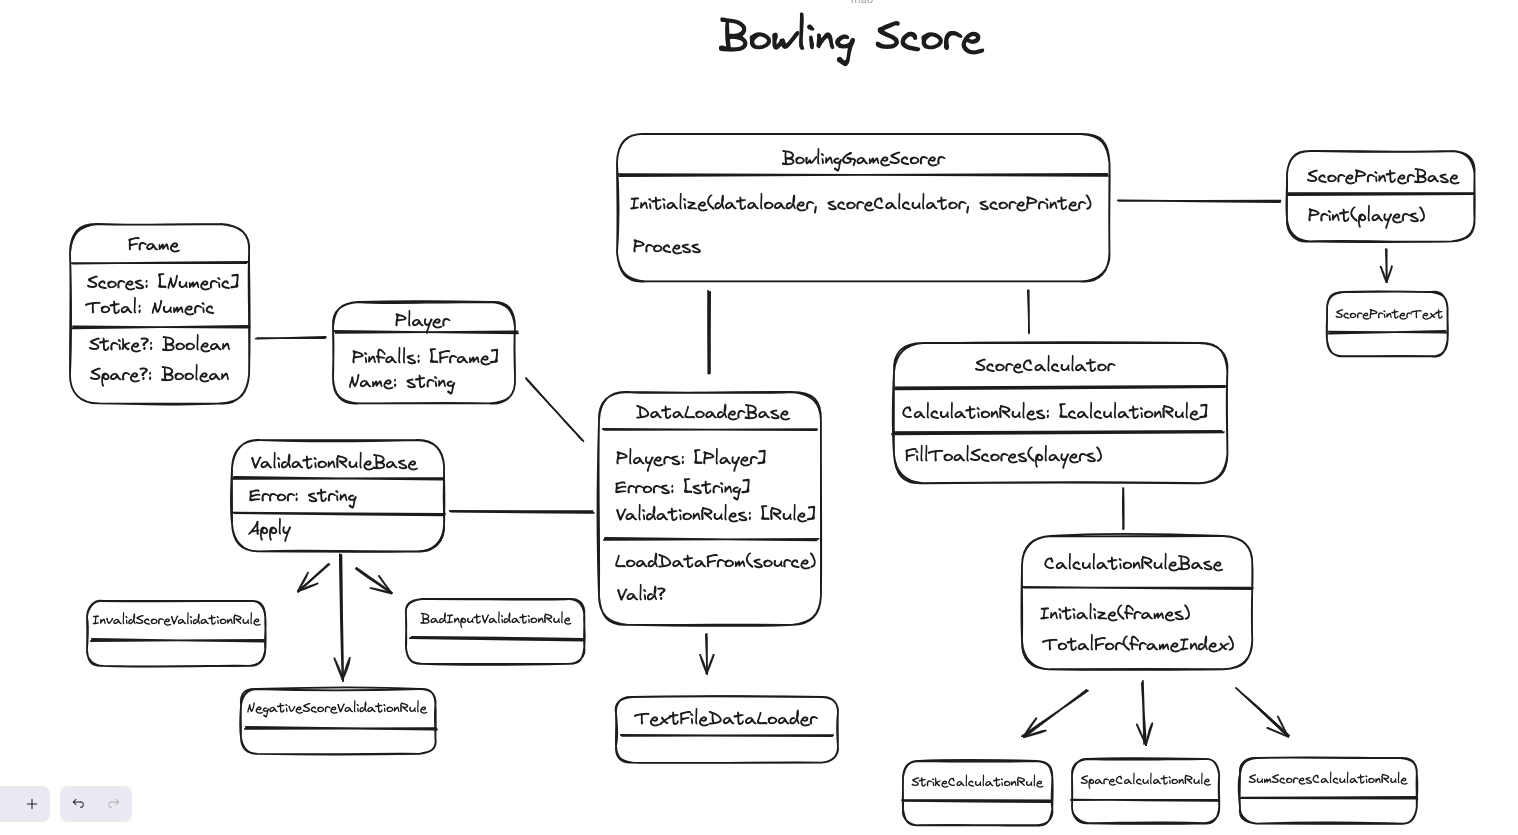
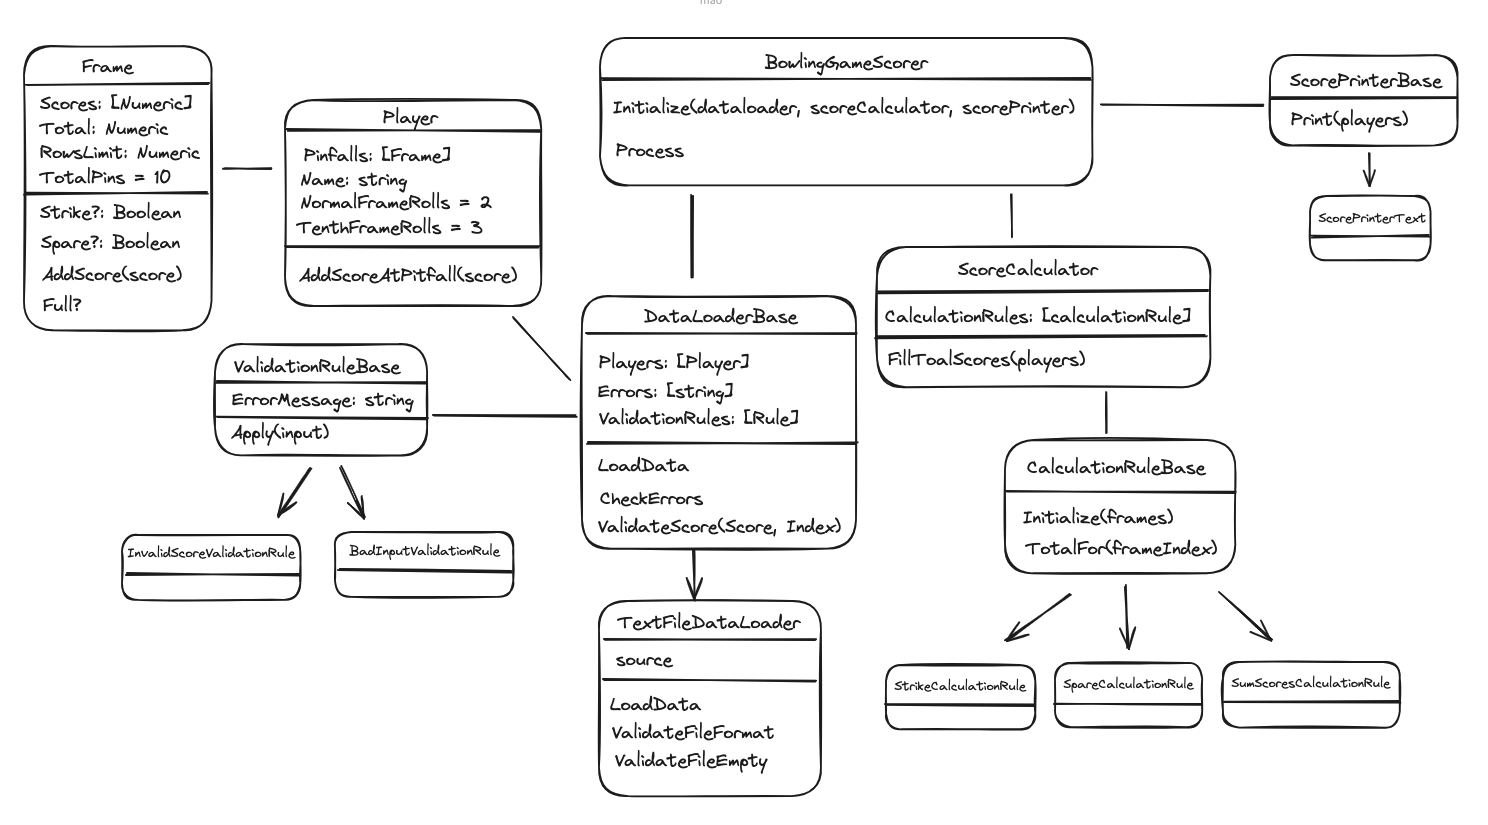
create Player class and update readme

Changed region(s): [[0.0, 0.0, 0.9892, 1.0], [0.1546, 0.7879, 0.3091, 0.9091]]

diff --git a/spec/lib/player_spec.rb b/spec/lib/player_spec.rb
@@ -1,0 +1,60 @@
+require 'spec_helper'
+require 'player'
+
+RSpec.describe Player do
+  describe '#add_score_at_pinfall' do
+    context 'when the frame is not full' do
+      it 'adds the score to the last frame' do
+        player = described_class.new('John Doe')
+        player.add_score_at_pinfall('1')
+
+        expect(player.name).to eql('John Doe')
+        expect(player.pinfalls.size).to be(1)
+
+        player.add_score_at_pinfall('3')
+
+        expect(player.pinfalls.size).to be(1)
+        expect(player.pinfalls[0].scores).to eql(%w[1 3])
+      end
+    end
+
+    context 'when the frame is full' do
+      it 'adds the score to a new frame' do
+        player = described_class.new('John Doe')
+        player.add_score_at_pinfall('1')
+        player.add_score_at_pinfall('2')
+
+        expect(player.pinfalls.size).to be(1)
+
+        player.add_score_at_pinfall('3')
+
+        expect(player.pinfalls.size).to be(2)
+        expect(player.pinfalls[1].scores).to eql(['3'])
+      end
+    end
+
+    context 'when already have 9 frames full' do
+      it 'adds the score to a tenth frame with 3 rolls' do
+        player = described_class.new('John Doe')
+        player.add_score_at_pinfall('10')
+        player.add_score_at_pinfall('10')
+        player.add_score_at_pinfall('10')
+        player.add_score_at_pinfall('10')
+        player.add_score_at_pinfall('10')
+        player.add_score_at_pinfall('10')
+        player.add_score_at_pinfall('10')
+        player.add_score_at_pinfall('10')
+        player.add_score_at_pinfall('10')
+
+        expect(player.pinfalls.size).to be(9)
+
+        player.add_score_at_pinfall('10')
+        player.add_score_at_pinfall('10')
+        player.add_score_at_pinfall('8')
+
+        expect(player.pinfalls.size).to be(10)
+        expect(player.pinfalls[9].scores).to eql(['10', '10', '8'])
+      end
+    end
+  end
+end

diff --git a/lib/player.rb b/lib/player.rb
@@ -1,8 +1,25 @@
+require_relative 'frame'
+
 class Player
-  attr_accessor :name, :pinfalls
+  attr_reader :name
+  attr_accessor :pinfalls
+
+  NORMAL_FRAME_ROLLS = 2
+  TENTH_FRAME_ROLLS = 3
 
   def initialize(name)
     @name = name
-    @pinfalls = []
+    @pinfalls = [Frame.new(NORMAL_FRAME_ROLLS)]
+  end
+
+  def add_score_at_pinfall(score)
+    last_frame = @pinfalls[pinfalls.size - 1]
+    if last_frame.full?
+      frame = @pinfalls.size <= 9 ? Frame.new(NORMAL_FRAME_ROLLS) : Frame.new(TENTH_FRAME_ROLLS)
+      frame.add_score(score)
+      @pinfalls << frame
+    else
+      last_frame.add_score(score)
+    end
   end
 end

diff --git a/README.md b/README.md
@@ -178,3 +178,4 @@ Modeling updates:
   - The Base for DataLoad instead receive the source on load data method, just defines load data and let the concrete class initializer be responsible for the source;
   - Join invalid score and negative score in just one validator;
   - Create Frame class and add new methods to self manage when the scores is full;
+  - Create Player class and add new method to self manage when need to add new frame or use the last frame added;
